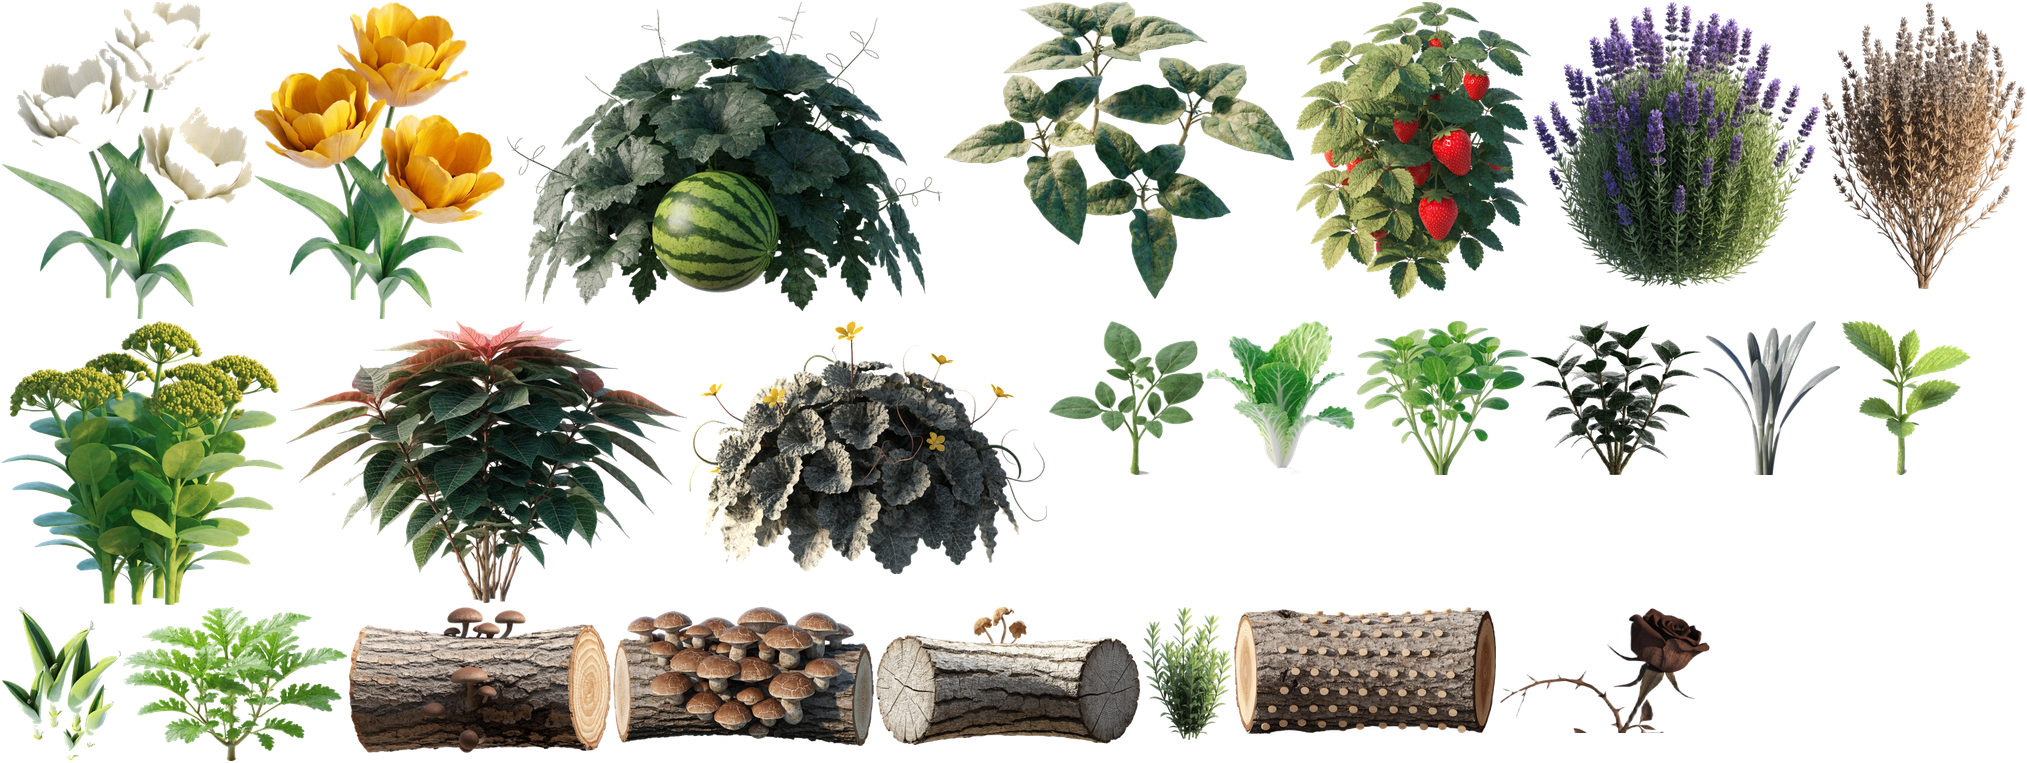
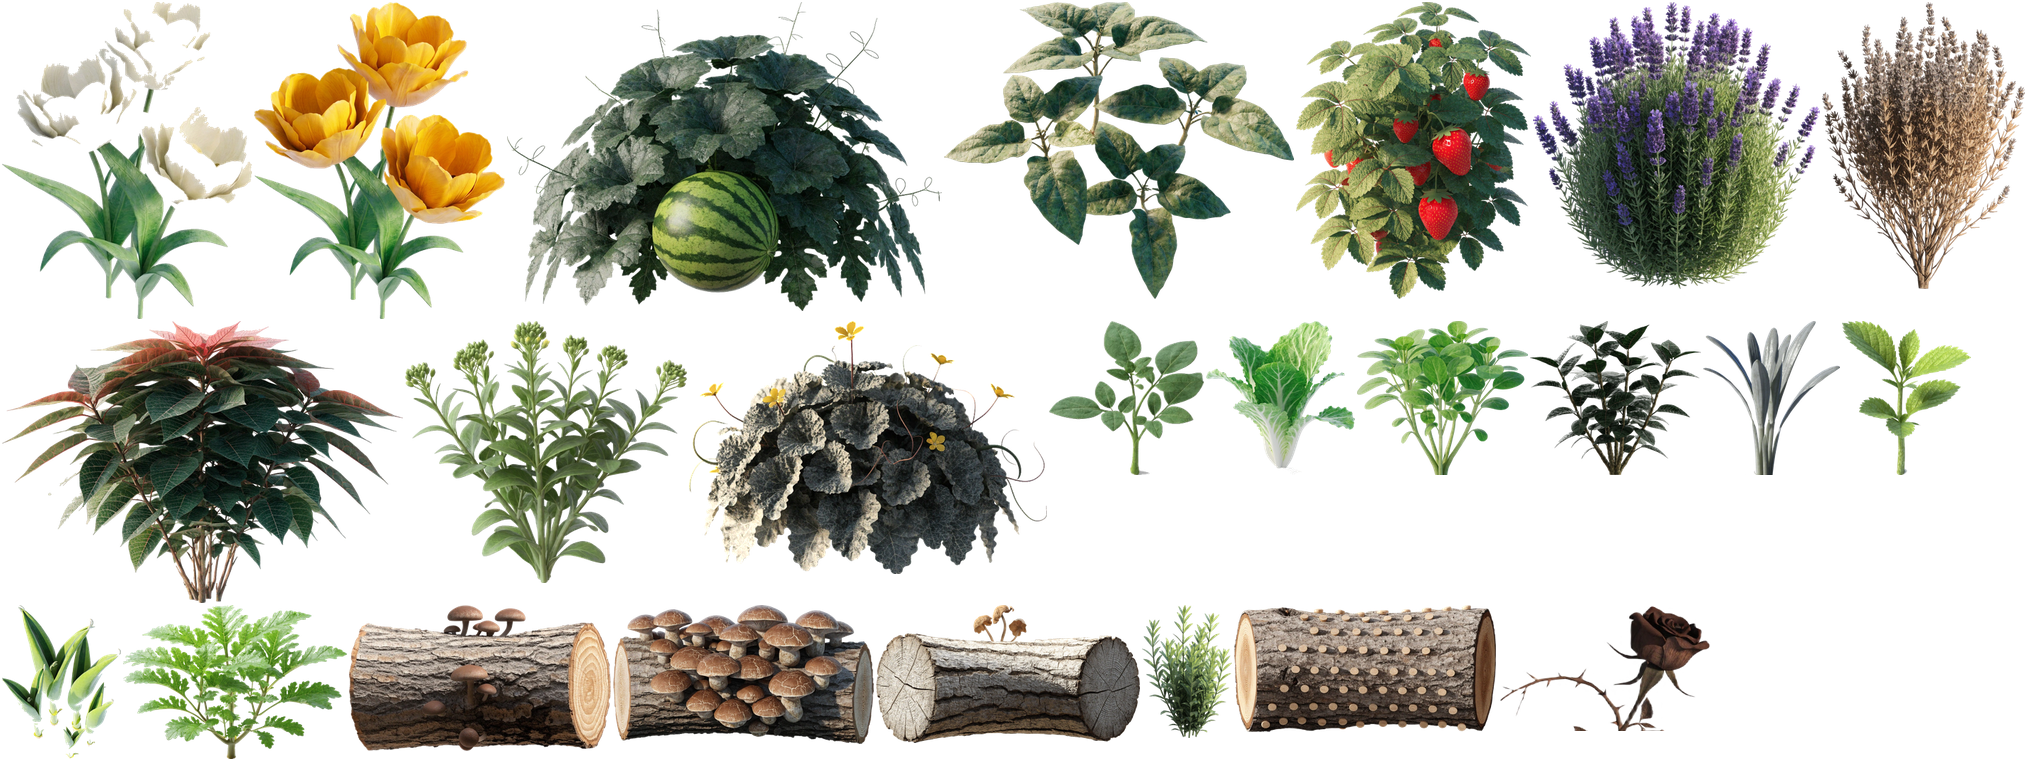
菜の花の段階2の差し替え

diff --git a/app/src/debug/java/com/studioguu/miniaturegarden/debug/GroundGarden.kt b/app/src/debug/java/com/studioguu/miniaturegarden/debug/GroundGarden.kt
@@ -111,15 +111,19 @@ object GroundGarden {
             planted.flatMapIndexed { i, cell -> place(now, crops[i % crops.size].objectId, listOf(cell)).map { it.copy(growthProgress = 1f) } }
     }
 
-    /** A field of grown [species], a row gone over, and one under glass (`--es garden hakusai`, or nanohana). */
-    fun field(now: Long, species: PlantSpecies): List<GridObject> {
+    /**
+     * A field of grown [species], a row gone over, and one under glass (`--es garden hakusai`, or
+     * nanohana). [young]: how far grown the back row and the one under glass are.
+     */
+    fun field(now: Long, species: PlantSpecies, young: Float = 1f): List<GridObject> {
         val grown = cells(2..6, 3..4)
         val withered = cells(2..6, 5..5)
         val beds = grown + withered
         fun crop(cell: GridCell) = place(now, species.objectId, listOf(cell)).map { it.copy(growthProgress = 1f) }
-        return place(now, GridObject.TILLED_SOIL_OBJECT_ID, beds) + grown.flatMap(::crop) +
+        fun youngCrop(cell: GridCell) = crop(cell).map { it.copy(growthProgress = young) }
+        return place(now, GridObject.TILLED_SOIL_OBJECT_ID, beds) + grown.flatMap { if (it.y == 3) youngCrop(it) else crop(it) } +
             withered.flatMap(::crop).map { it.copy(status = PlantStatus.WITHERED) } +
-            place(now, GridObject.GREENHOUSE_OBJECT_ID, listOf(GridCell(8, 4))) + crop(GridCell(8, 4))
+            place(now, GridObject.GREENHOUSE_OBJECT_ID, listOf(GridCell(8, 4))) + youngCrop(GridCell(8, 4))
     }
 
     fun fencesOnGrounds(now: Long): List<GridObject> {

diff --git a/app/src/debug/java/com/studioguu/miniaturegarden/debug/ShowcaseReceiver.kt b/app/src/debug/java/com/studioguu/miniaturegarden/debug/ShowcaseReceiver.kt
@@ -117,7 +117,7 @@ class ShowcaseReceiver : BroadcastReceiver() {
                     lawnThings -> GroundGarden.lawnThings(now)
                     greenhouse -> GroundGarden.greenhouse(now)
                     hakusai -> GroundGarden.field(now, PlantSpecies.HAKUSAI)
-                    nanohana -> GroundGarden.field(now, PlantSpecies.NANOHANA)
+                    nanohana -> GroundGarden.field(now, PlantSpecies.NANOHANA, young = 0.5f)
                     bridgePlaces -> FenceGarden.bridgePlaces(now)
                     feedback -> FeedbackGarden.objects(now)
                     else -> ShowcaseGarden.objects(now)

diff --git a/app/src/test/java/com/studioguu/miniaturegarden/data/asset/NanohanaArtTest.kt b/app/src/test/java/com/studioguu/miniaturegarden/data/asset/NanohanaArtTest.kt
@@ -25,6 +25,15 @@ class NanohanaArtTest {
     }
 
     @Test
+    fun `in bud, it stands well between the seedling and the grown plant`() {
+        val seedling = sprite("stage1")
+        val budding = sprite("stage2")
+        val grown = sprite("stage3")
+        assertTrue(budding.width > seedling.width * 1.3f && budding.height > seedling.height * 1.3f)
+        assertTrue(budding.width < grown.width * 0.8f && budding.height < grown.height * 0.8f)
+    }
+
+    @Test
     fun `withered, it is about the size it was grown`() {
         val grown = sprite("stage3")
         val dead = sprite("withered")

diff --git a/tools/prepare_drawable_art.py b/tools/prepare_drawable_art.py
@@ -39,7 +39,7 @@ This script:
         spread of outer leaves, sized by their width and stood on the foot of the head, the leaves
         lying out in front of it;
       - nanohana (#87): the same; a wide flowering clump, sized by its width from stage 2 on. Stage 3
-        and withered (#93) are stems tipped with spires of small flowers, about as tall as wide;
+        and withered (#93), and stage 2 with its green buds (#94), are stems tipped with spires, about as tall as wide;
         the withered one is pale, and is cut more firmly and deepened ([WITHERED_CUT], [firmed]);
       - cosmos stage 1 (#87): a young plant so pale and fine that it vanished on the soil; it is
         brought to the colour of stage 2's leaves and its strands are firmed up (deepened);

diff --git a/docs/ROADMAP.md b/docs/ROADMAP.md
@@ -79,6 +79,7 @@
 | 91 | 温室の仕上げ：屋根はなしに決定（枠のコードは残す）。ガラスに奥の白青み・手前の光の筋・上端のハイライト。扉の向きを選べる（DB v20 `doorSide`、木枠に面した方向は除く、編集モードの「向きを変える」）。図鑑・アイコンは作物入りの 2×2、図鑑の影は箱の上面に収める。白菜の段階 3 と枯れを差し替え（横幅 0.76 マス）。図鑑の作物は育つ地面の上（畝・耕した土、しいたけは荒れ地）に。確認用の庭 `hakusai` |
 | 92 | 実機 FB（11/1 午後）の直し：太鼓橋は川の流れに合わせて向きを自動で決める（`GardenGrid.bridgeFor`、両方置ける所は短い方、同じなら編集モードの「向きを変える」）。置くときは 1 回目のタップで使うマスを色付きで見せ、そのマスをもう一度タップで置く。置けない理由を一言（`BRIDGE_OFF_THE_EDGE` `BRIDGE_ENDS_TAKEN` ほか）。コテージの漆喰を 1 枚ずつ塗りの範囲にし、原画のしみを取り除いた（`PLASTER` `clean_plaster`）。井戸の屋根の色（`mask_struct_well`）。温室の影を薄く（`GLASS_SHADOW`、土台の影はそのまま）。確認用の庭 `bridgeplace`、色の一覧 `tools/paint_sheet.py` |
 | 93 | 菜の花の段階 3 と枯れを差し替え（横幅 0.8 マス。段階 3 はコスモスと同じ切り抜き、枯れは淡いので `WITHERED_CUT` `firmed` で濃く）。コテージのアイコンをしみを取った絵から作り直し。`prepare_drawable_art.py` が温室のアイコンを古い絵で上書きしないよう `CUT_ICONS` から外した。確認用の庭 `nanohana` |
+| 94 | 菜の花の段階 2 を差し替え（細長い葉に緑のつぼみの房。横幅 0.55・高さ約 0.51 マス、切り抜きは段階 3 と同じ） |
 | 86 | 柵の見た目の直し：竹垣の間引きをやめ原画の密度で並べる。木の柵の横木は引き伸ばさず中央を繰り返す（`lay_side_by_side`）。レンガの縁石を取り下げ（`inShop = false`、図鑑 43→42 ページ、旧セーブの分は `RetiredCropsUseCase` で片づけて返金。絵とコードは残す）。原画 4 枚をコミット |
 | 85 | アセットの取り込み：柵 3 種（木の柵を写実の絵に差し替え、白い柵 Lv5・25、竹垣 Lv8・35。ショップは「柵」から種類の一覧。同じ種類だけ連結。`RunKind`）。1 区画の絵から杭と杭の間を切り出して斜めに沿わせる（`tools/prepare_fence_art.py`、`drawRunPiece`。コードの横木をやめた）。竹垣は縦の竹を間引く。レンガの縁石 Lv16・60（のこぎり歯のまま、右下がりの辺は反転。生き物は入れない、ことりの柵には数えない）。太鼓橋の絵の立つ位置と倍率を床板の端から求め直し、庭の端でも木枠にかからない（`bridge_fit`）。`build_terrain_assets.py` を削除 |
 | 84 | 取り込みの直し：太鼓橋は岸から岸へ（1 マス幅は 1×3、2 マス幅は 1×4、3 マス幅以上は不可。`GardenGrid.bridgeAcross`、長さは `GridObject.turned`）、1×4 は `struct_bridge_taiko_long`（両端を残して中央だけ伸ばし、アーチを上げる）、橋の下の川と両端は片づけ・上書き不可。影は反転に合わせる。岸を約 7 割の太さに（1 マス幅の川の水面はマスの 6 割）、白いふちを除去（`strip_white`）。ベンチの足元の土の粒をやめる。小川と池のアイコンを新しい絵から作り直し |

diff --git a/docs/ASSET_LEDGER.md b/docs/ASSET_LEDGER.md
@@ -55,7 +55,7 @@
 | しいたけ（`plant_shiitake`） | Lv14 | ✅ | ✅ | ✅ | ➖ | ✅ | ✅ | Recraft（#68。C2PA を grep で確認）。#68 でカボチャと入れ替えた作物。丸太の長さが全段階で同じになるよう大きさを決めた。枯れの白っぽい樹皮は白だけを抜いて切り抜いた |
 | ポインセチア（`plant_poinsettia`） | Lv15 | ✅ | ✅ | ✅ | ➖ | ✅ | ✅ | Recraft（#69。C2PA を grep で確認）。#69 で 4 段階から 3 段階に。段階 2 の苞はピンク、段階 3 は赤（届いた絵のまま） |
 | 白菜（`plant_hakusai`） | Lv10 | ✅ | ✅ | ✅ | ➖ | ✅ | ✅ | Recraft（#87、#91 で段階 3 と枯れを外葉の広がった株に差し替え。横幅 0.76 マス、結球の足元に立つ）。段階 2 のひげ根を切り落とす。葉が白っぽいので真っ白だけを抜く（`white_parts`）。段階 3 は縦長で高さ 0.8 マス |
-| 菜の花（`plant_nanohana`） | Lv12 | ✅ | ✅ | ✅ | ➖ | ✅ | ✅ | Recraft（#87、#93 で段階 3 と枯れを穂の付いた株に差し替え。横幅 0.8 マス）。切り抜きはコスモスと同じ（`throughout`）。段階 2 から幅で大きさを決める（0.55・0.72 マス） |
+| 菜の花（`plant_nanohana`） | Lv12 | ✅ | ✅ | ✅ | ➖ | ✅ | ✅ | Recraft（#87、#93 で段階 3 と枯れを穂の付いた株に差し替え。横幅 0.8 マス。#94 で段階 2 を緑のつぼみの房の株に差し替え。横幅 0.55 マス）。切り抜きはコスモスと同じ（`throughout`）。段階 2 から幅で大きさを決める（0.55・0.72 マス） |
 
 - 仮（⬜）の作物に絵を入れるときは、**その作物の段階と枯れを全部そろえて**入れる（一部だけだと `CodeArtTest` が落ちる）。段階の数を 3 に変えるなら `PlantSpecies.growthStages` も直す。
 - アイコンの絵は `res/drawable-nodpi/icon_<作物>.png`（256×256、`tools/prepare_drawable_art.py` が原画から作る）を置き、`UiLabels.itemIconRes` に 1 行足す。

diff --git a/docs/ASSETS.md b/docs/ASSETS.md
@@ -244,8 +244,9 @@ python tools/asset_packer.py tools/raw_assets app/src/main/assets/atlas --tile-w
 - 地面の板 4 枚（荒れ地・耕した土・崩しかけた地面・水面）の上面の位置を表示する。`GroundSlab` の値はこれ。絵を差し替えたらこの値も直し、荒れ地は `FlatGround.FIELD_VERSION` を上げる（作った地面のキャッシュを捨てるため）。
 - 1 回 1 分ほど。
 
-### 菜の花の段階 3 と枯れ（#93）
+### 菜の花の段階 2・3 と枯れ（#93、#94）
 
+- 段階 2 は横幅 0.55 マス（高さ約 0.51）。切り抜きは段階 3 と同じ。
 - 大きさは横幅 0.8 マス（高さもほぼ同じ）。`STAGES` `WITHERED` の `("w", 0.8)`。
 - 段階 3 はコスモスと同じ切り抜き（`throughout`・`solid` 100）。既定の切り抜きだと花と葉の間に白が残る。
 - 枯れは淡いので、同じ設定だと葉が透ける。`WITHERED_CUT`（`solid` 45）で切り、`FIRMED`（0.8 倍・コントラスト 1.2・アルファ 0.55 乗）で濃くして、明るい地面でも縁を残す。
